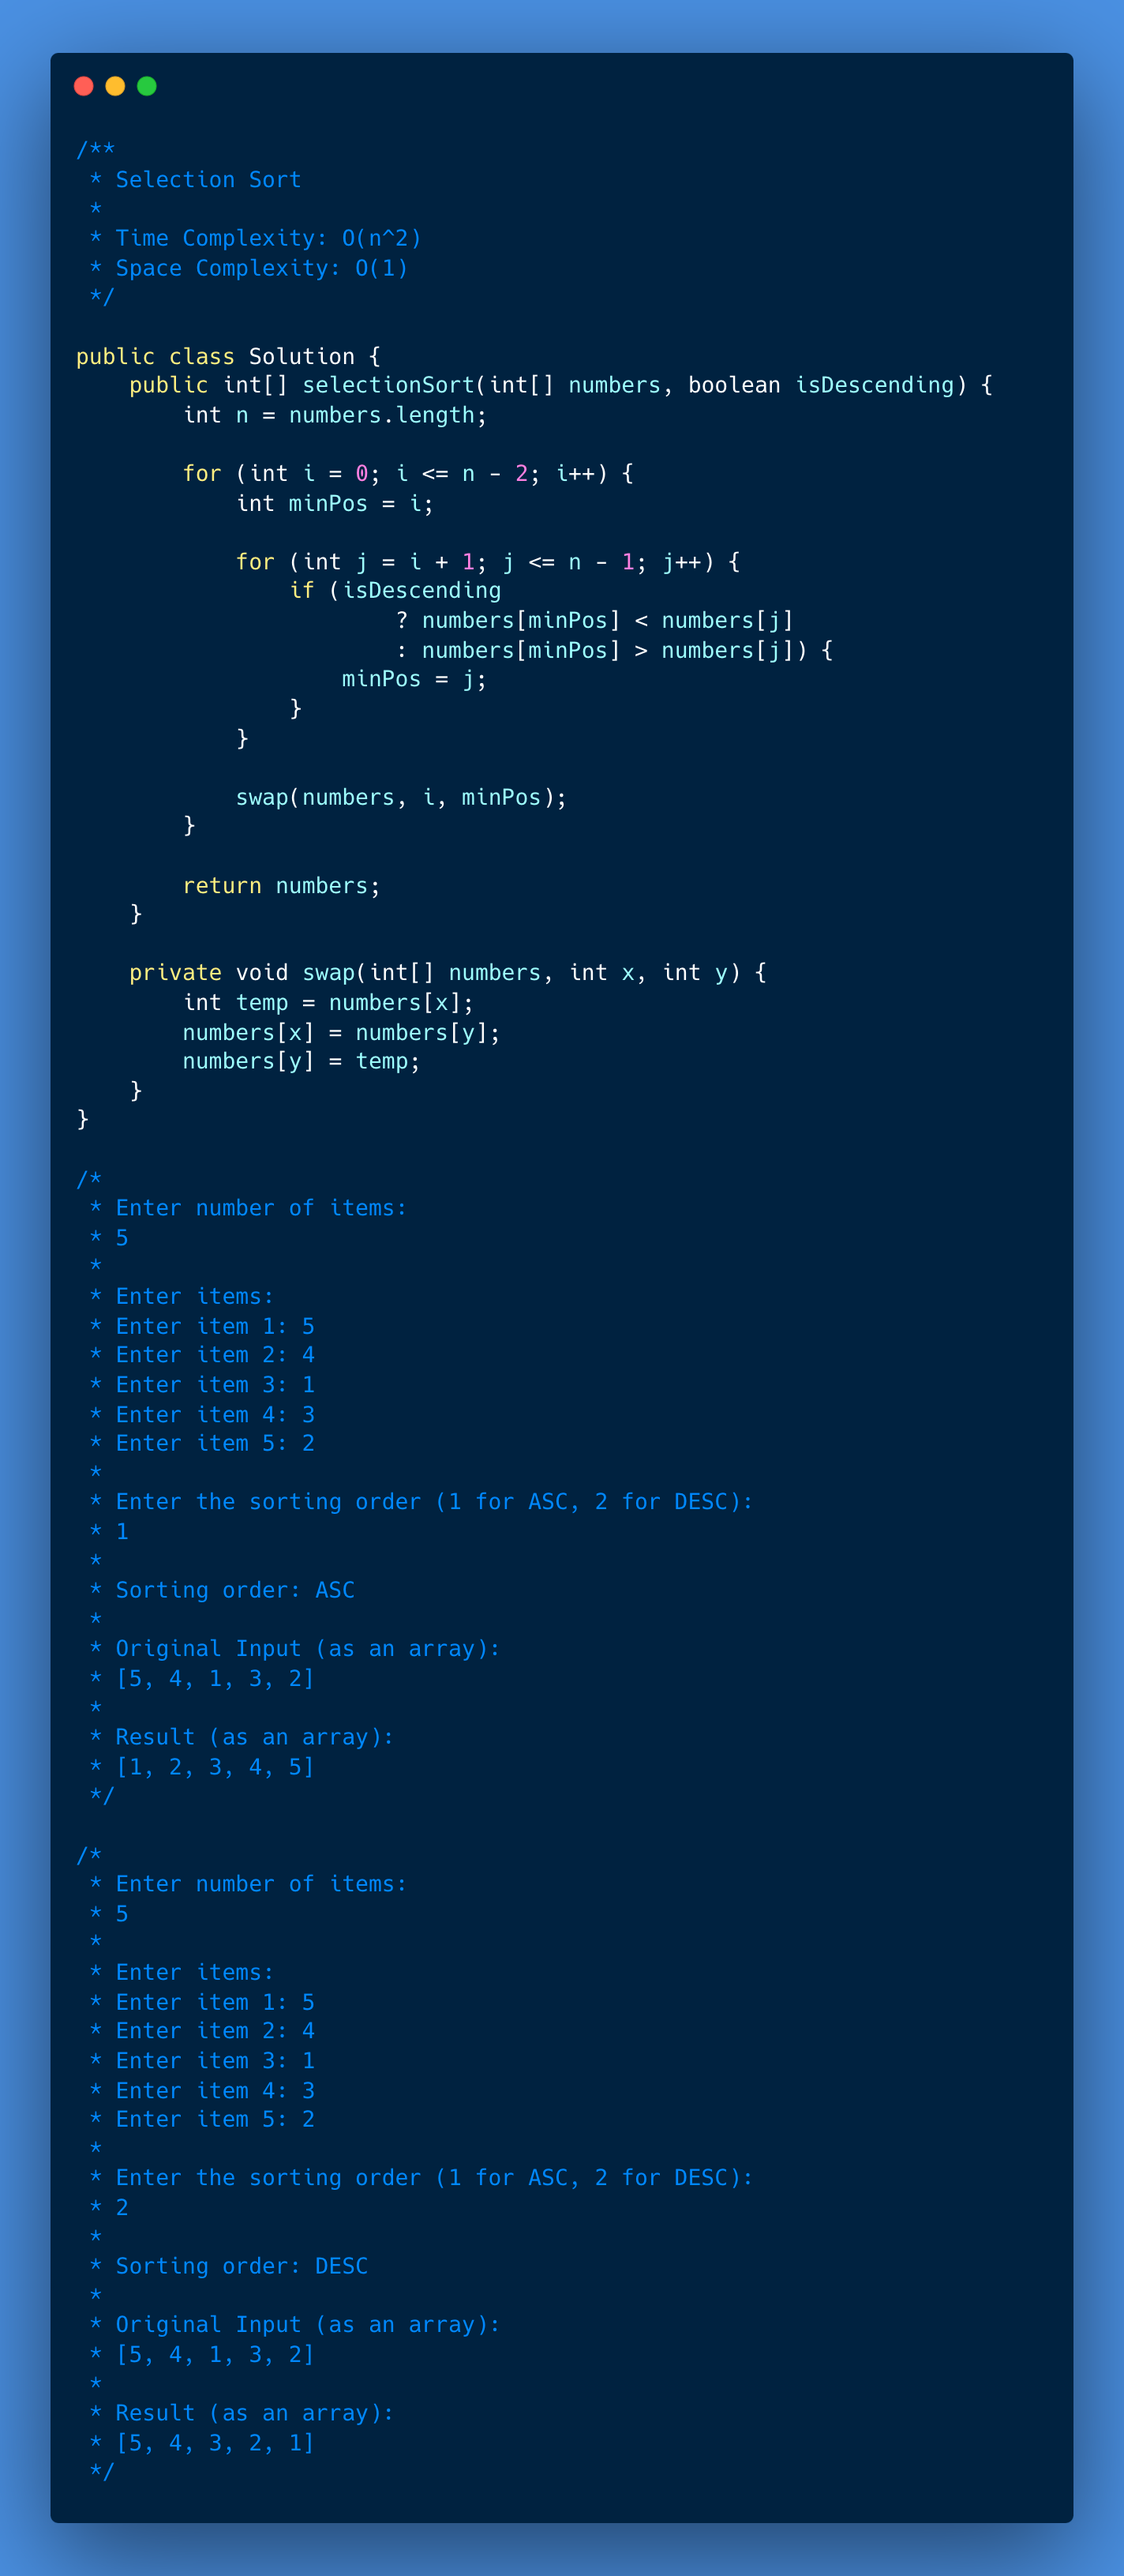
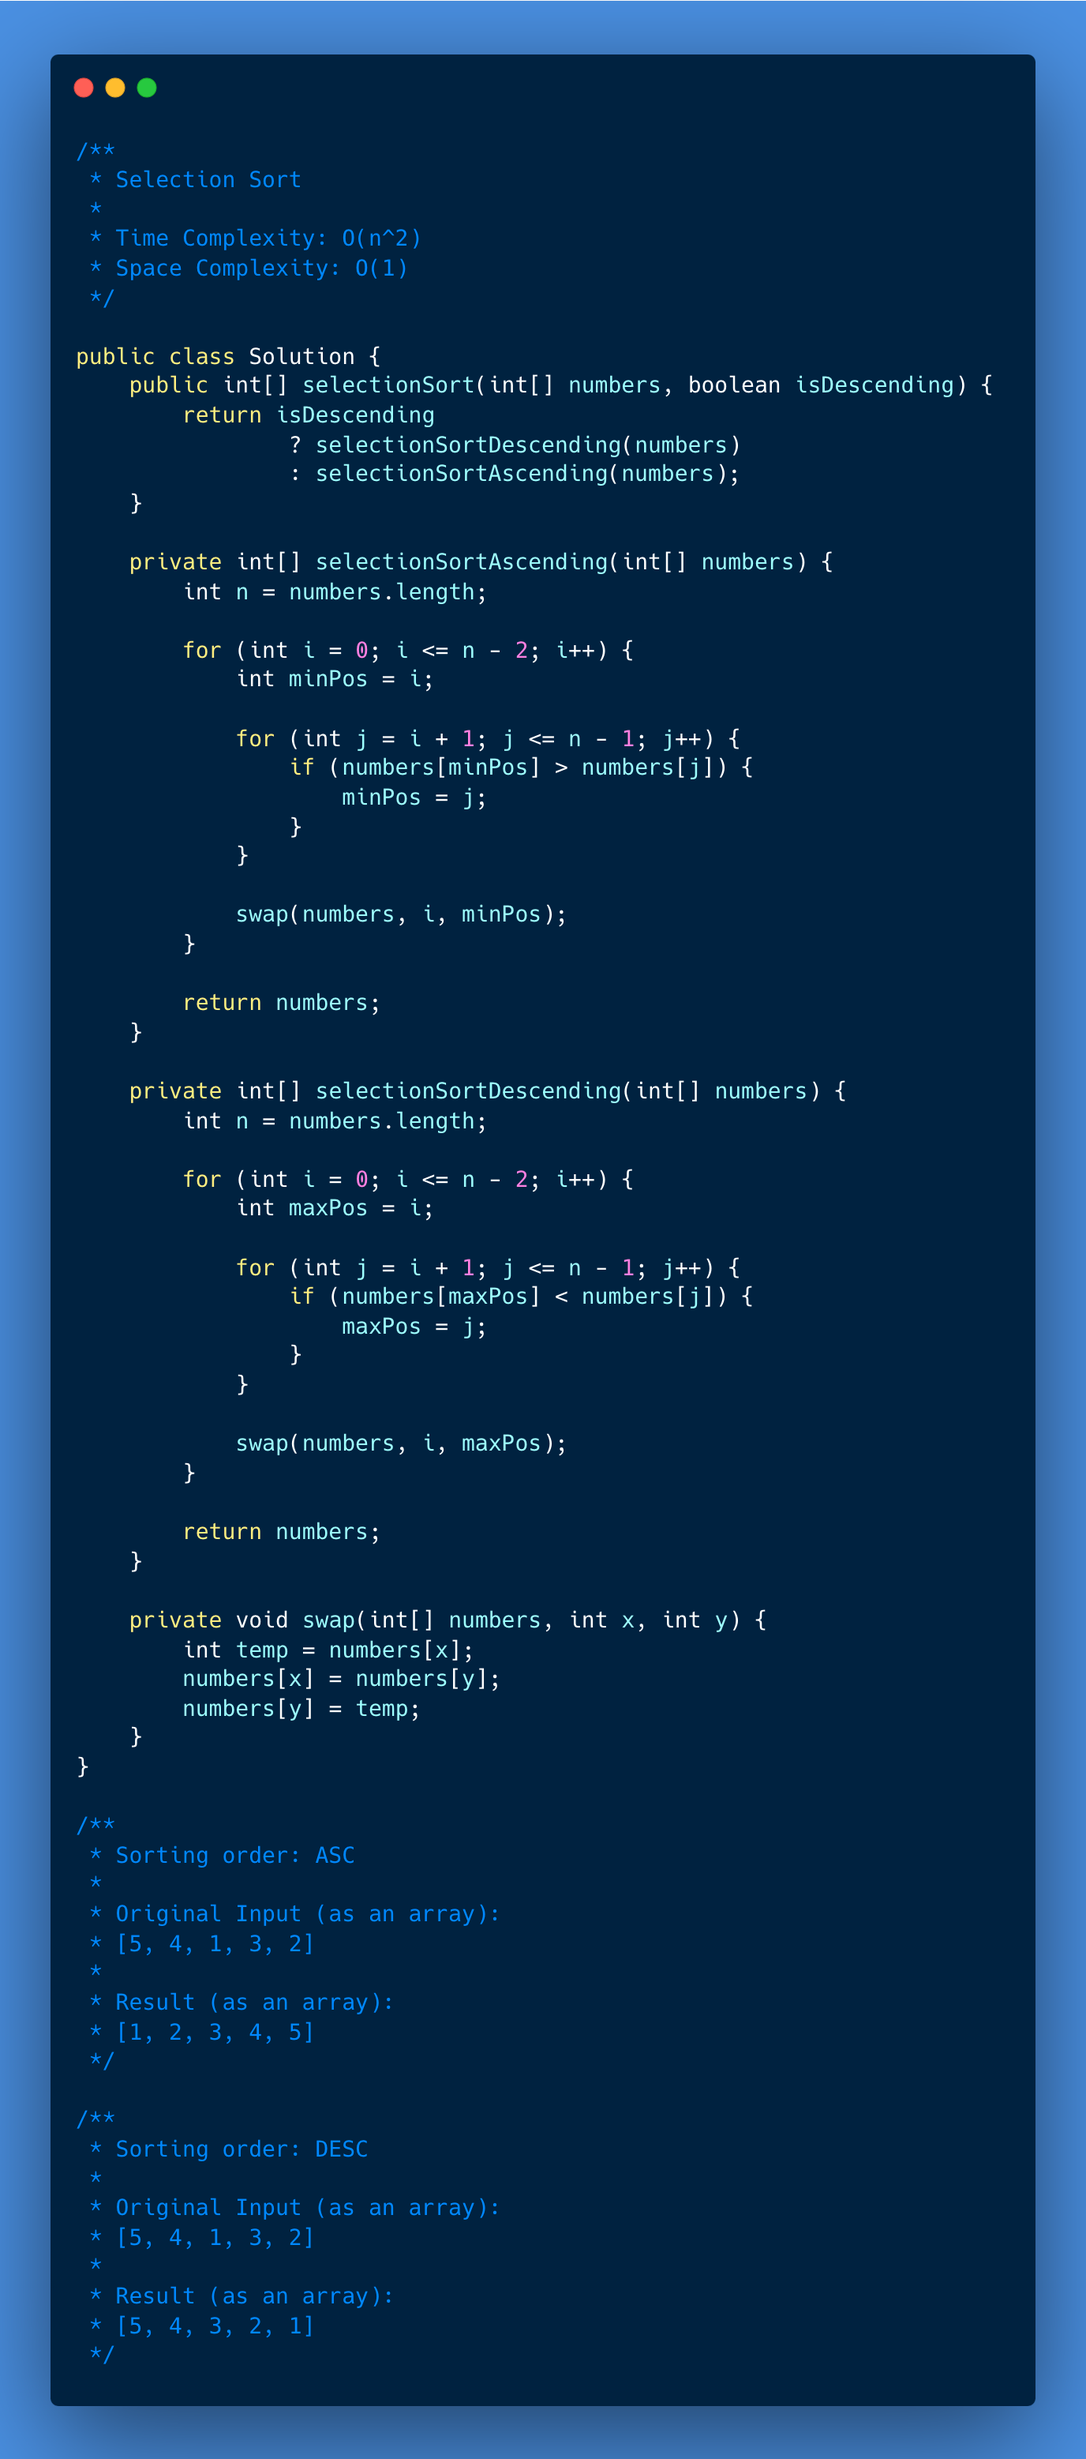
Selection Sort updates

diff --git a/052-selection-sort/001-solution/Solution.java b/052-selection-sort/001-solution/Solution.java
@@ -7,20 +7,42 @@
 
 public class Solution {
     public int[] selectionSort(int[] numbers, boolean isDescending) {
+        return isDescending
+                ? selectionSortDescending(numbers)
+                : selectionSortAscending(numbers);
+    }
+
+    private int[] selectionSortAscending(int[] numbers) {
         int n = numbers.length;
 
         for (int i = 0; i <= n - 2; i++) {
             int minPos = i;
 
             for (int j = i + 1; j <= n - 1; j++) {
-                if (isDescending
-                        ? numbers[minPos] < numbers[j]
-                        : numbers[minPos] > numbers[j]) {
+                if (numbers[minPos] > numbers[j]) {
                     minPos = j;
                 }
             }
 
             swap(numbers, i, minPos);
+        }
+
+        return numbers;
+    }
+
+    private int[] selectionSortDescending(int[] numbers) {
+        int n = numbers.length;
+
+        for (int i = 0; i <= n - 2; i++) {
+            int maxPos = i;
+
+            for (int j = i + 1; j <= n - 1; j++) {
+                if (numbers[maxPos] < numbers[j]) {
+                    maxPos = j;
+                }
+            }
+
+            swap(numbers, i, maxPos);
         }
 
         return numbers;
@@ -33,20 +55,7 @@ public class Solution {
     }
 }
 
-/*
- * Enter number of items:
- * 5
- * 
- * Enter items:
- * Enter item 1: 5
- * Enter item 2: 4
- * Enter item 3: 1
- * Enter item 4: 3
- * Enter item 5: 2
- * 
- * Enter the sorting order (1 for ASC, 2 for DESC):
- * 1
- * 
+/**
  * Sorting order: ASC
  * 
  * Original Input (as an array):
@@ -56,20 +65,7 @@ public class Solution {
  * [1, 2, 3, 4, 5]
  */
 
-/*
- * Enter number of items:
- * 5
- * 
- * Enter items:
- * Enter item 1: 5
- * Enter item 2: 4
- * Enter item 3: 1
- * Enter item 4: 3
- * Enter item 5: 2
- * 
- * Enter the sorting order (1 for ASC, 2 for DESC):
- * 2
- * 
+/**
  * Sorting order: DESC
  * 
  * Original Input (as an array):
